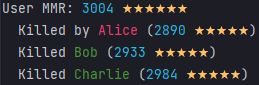
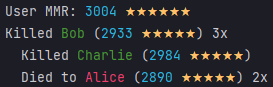
Updated the console log example and the death comment.

diff --git a/src/main.py b/src/main.py
@@ -97,7 +97,7 @@ def log_player_data(match: Match):
         logging.info(f"  Killed {Fore.GREEN}{player.name}{Style.RESET_ALL} ({format_mmr(player.mmr)}){kill_count}")
     for player in players_killed_me:
         death_count: str = f" {player.killed_me}x" if player.killed_me > 1 else ""
-        logging.info(f"  Killed by {Fore.RED}{player.name}{Style.RESET_ALL} ({format_mmr(player.mmr)}){death_count}")
+        logging.info(f"  Died to {Fore.RED}{player.name}{Style.RESET_ALL} ({format_mmr(player.mmr)}){death_count}")
 
 
 if __name__ == "__main__":
